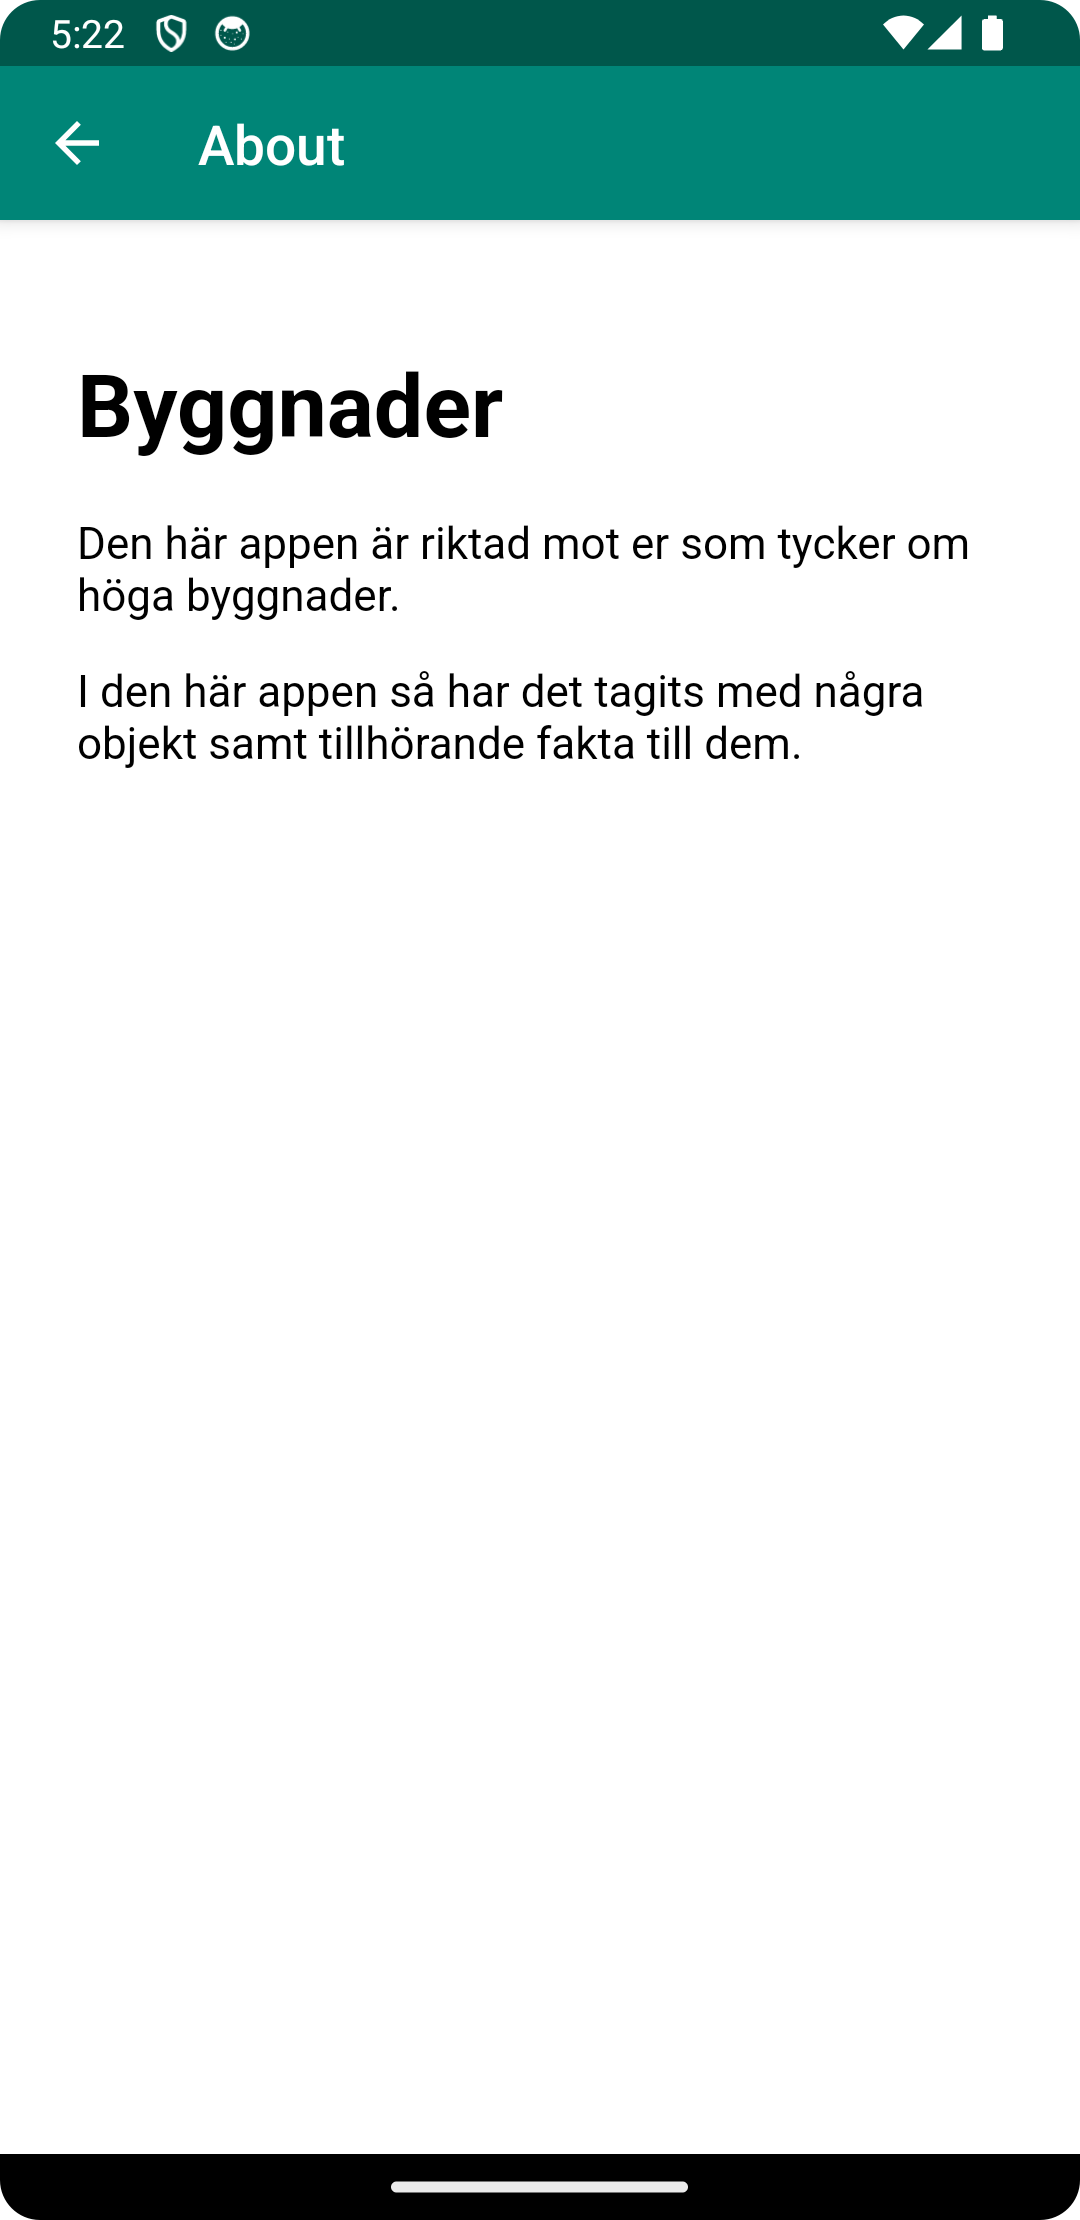
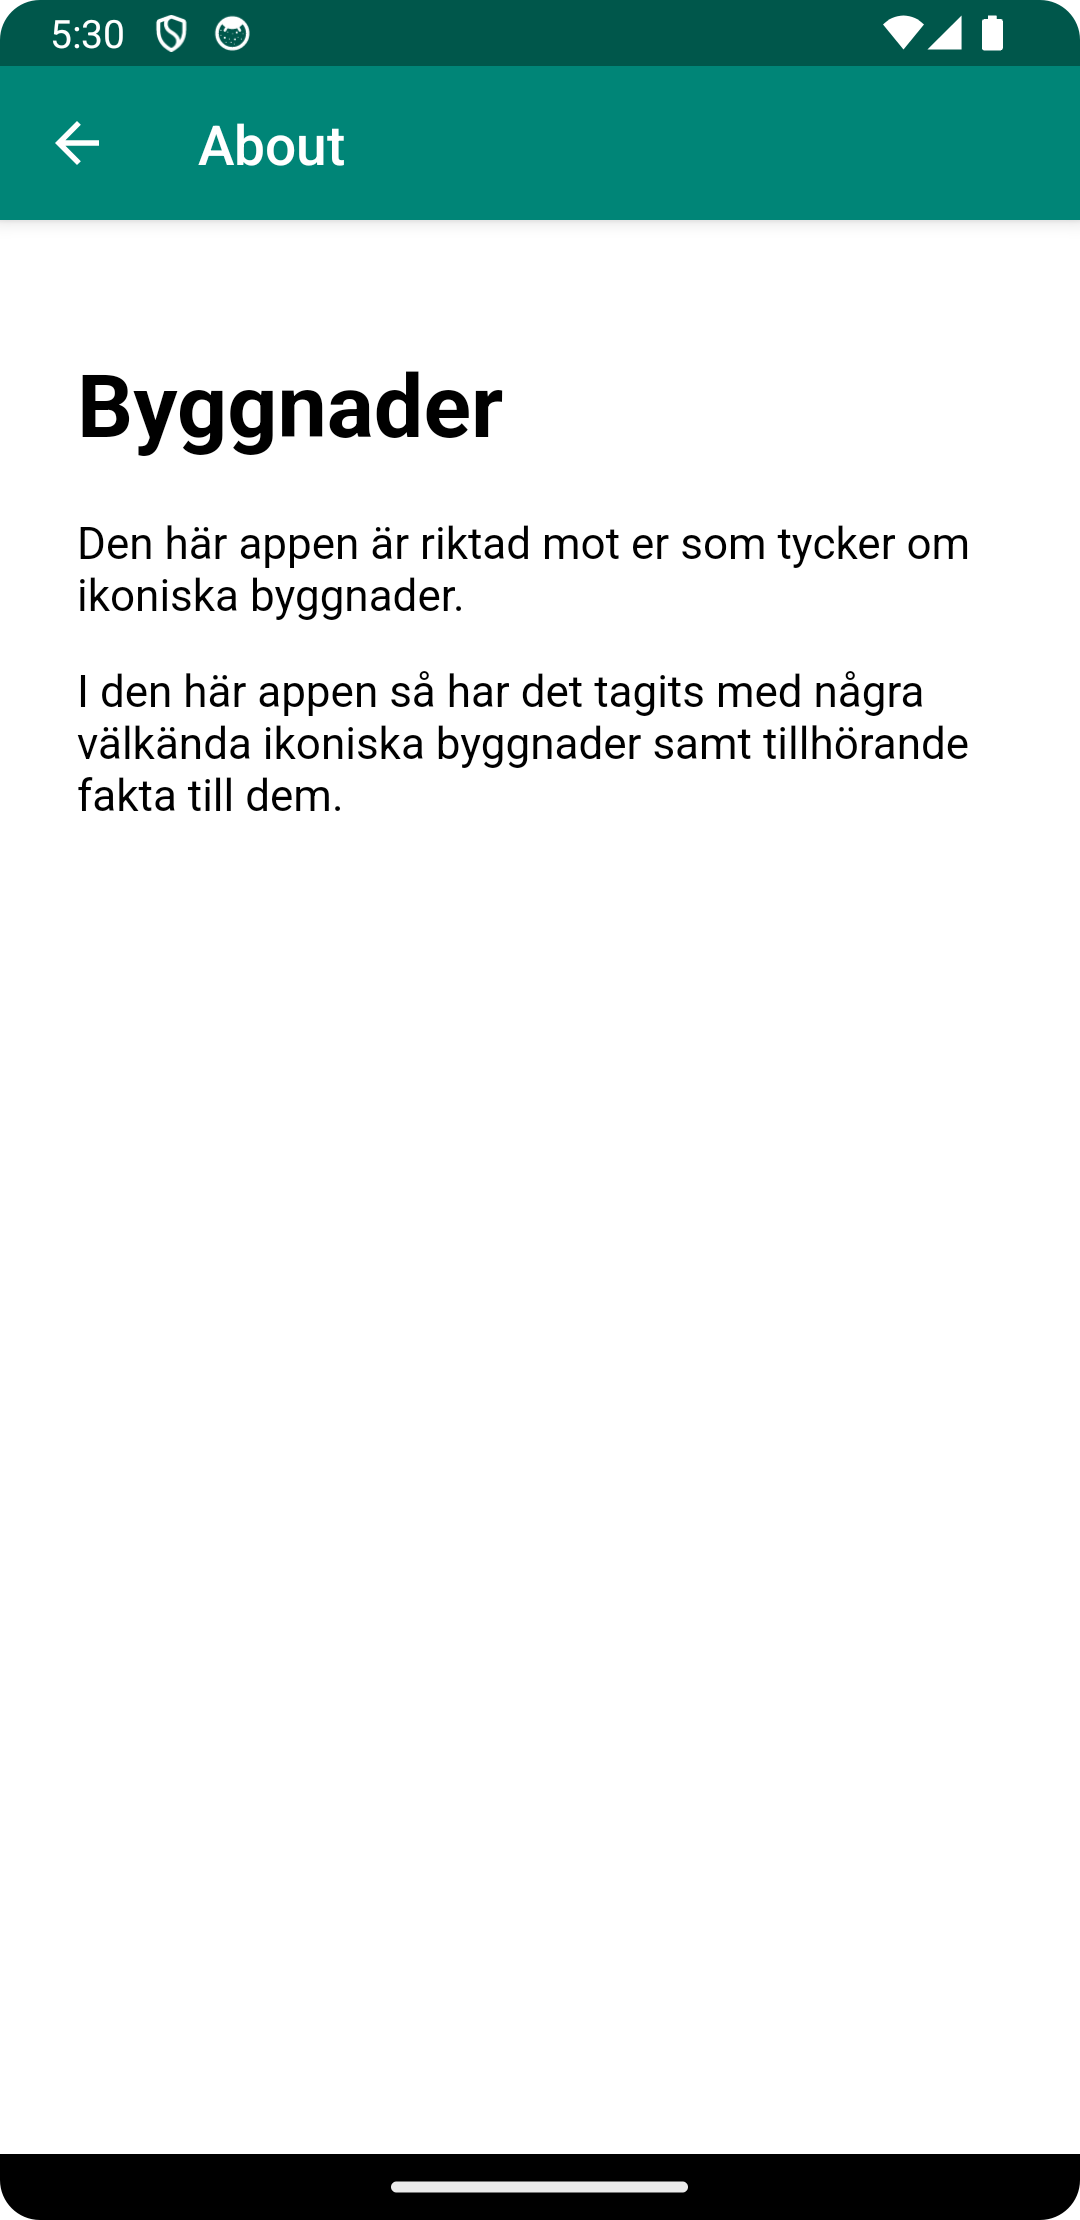
screenshots

Changed region(s): [[0.0611, 0.3108, 0.8861, 0.373], [0.0611, 0.2486, 0.4278, 0.2797], [0.0917, 0.0, 0.1222, 0.0311]]

diff --git a/app/src/main/assets/about.html b/app/src/main/assets/about.html
@@ -10,7 +10,8 @@
 </head>
 <body>
 <h1>Byggnader</h1>
-<p>Den här appen är riktad mot er som tycker om höga byggnader.</p>
-<p>I den här appen så har det tagits med några objekt samt tillhörande fakta till dem.</p>
+<p>Den här appen är riktad mot er som tycker om ikoniska byggnader.</p>
+<p>I den här appen så har det tagits med några välkända ikoniska byggnader
+    samt tillhörande fakta till dem.</p>
 </body>
 </html>
